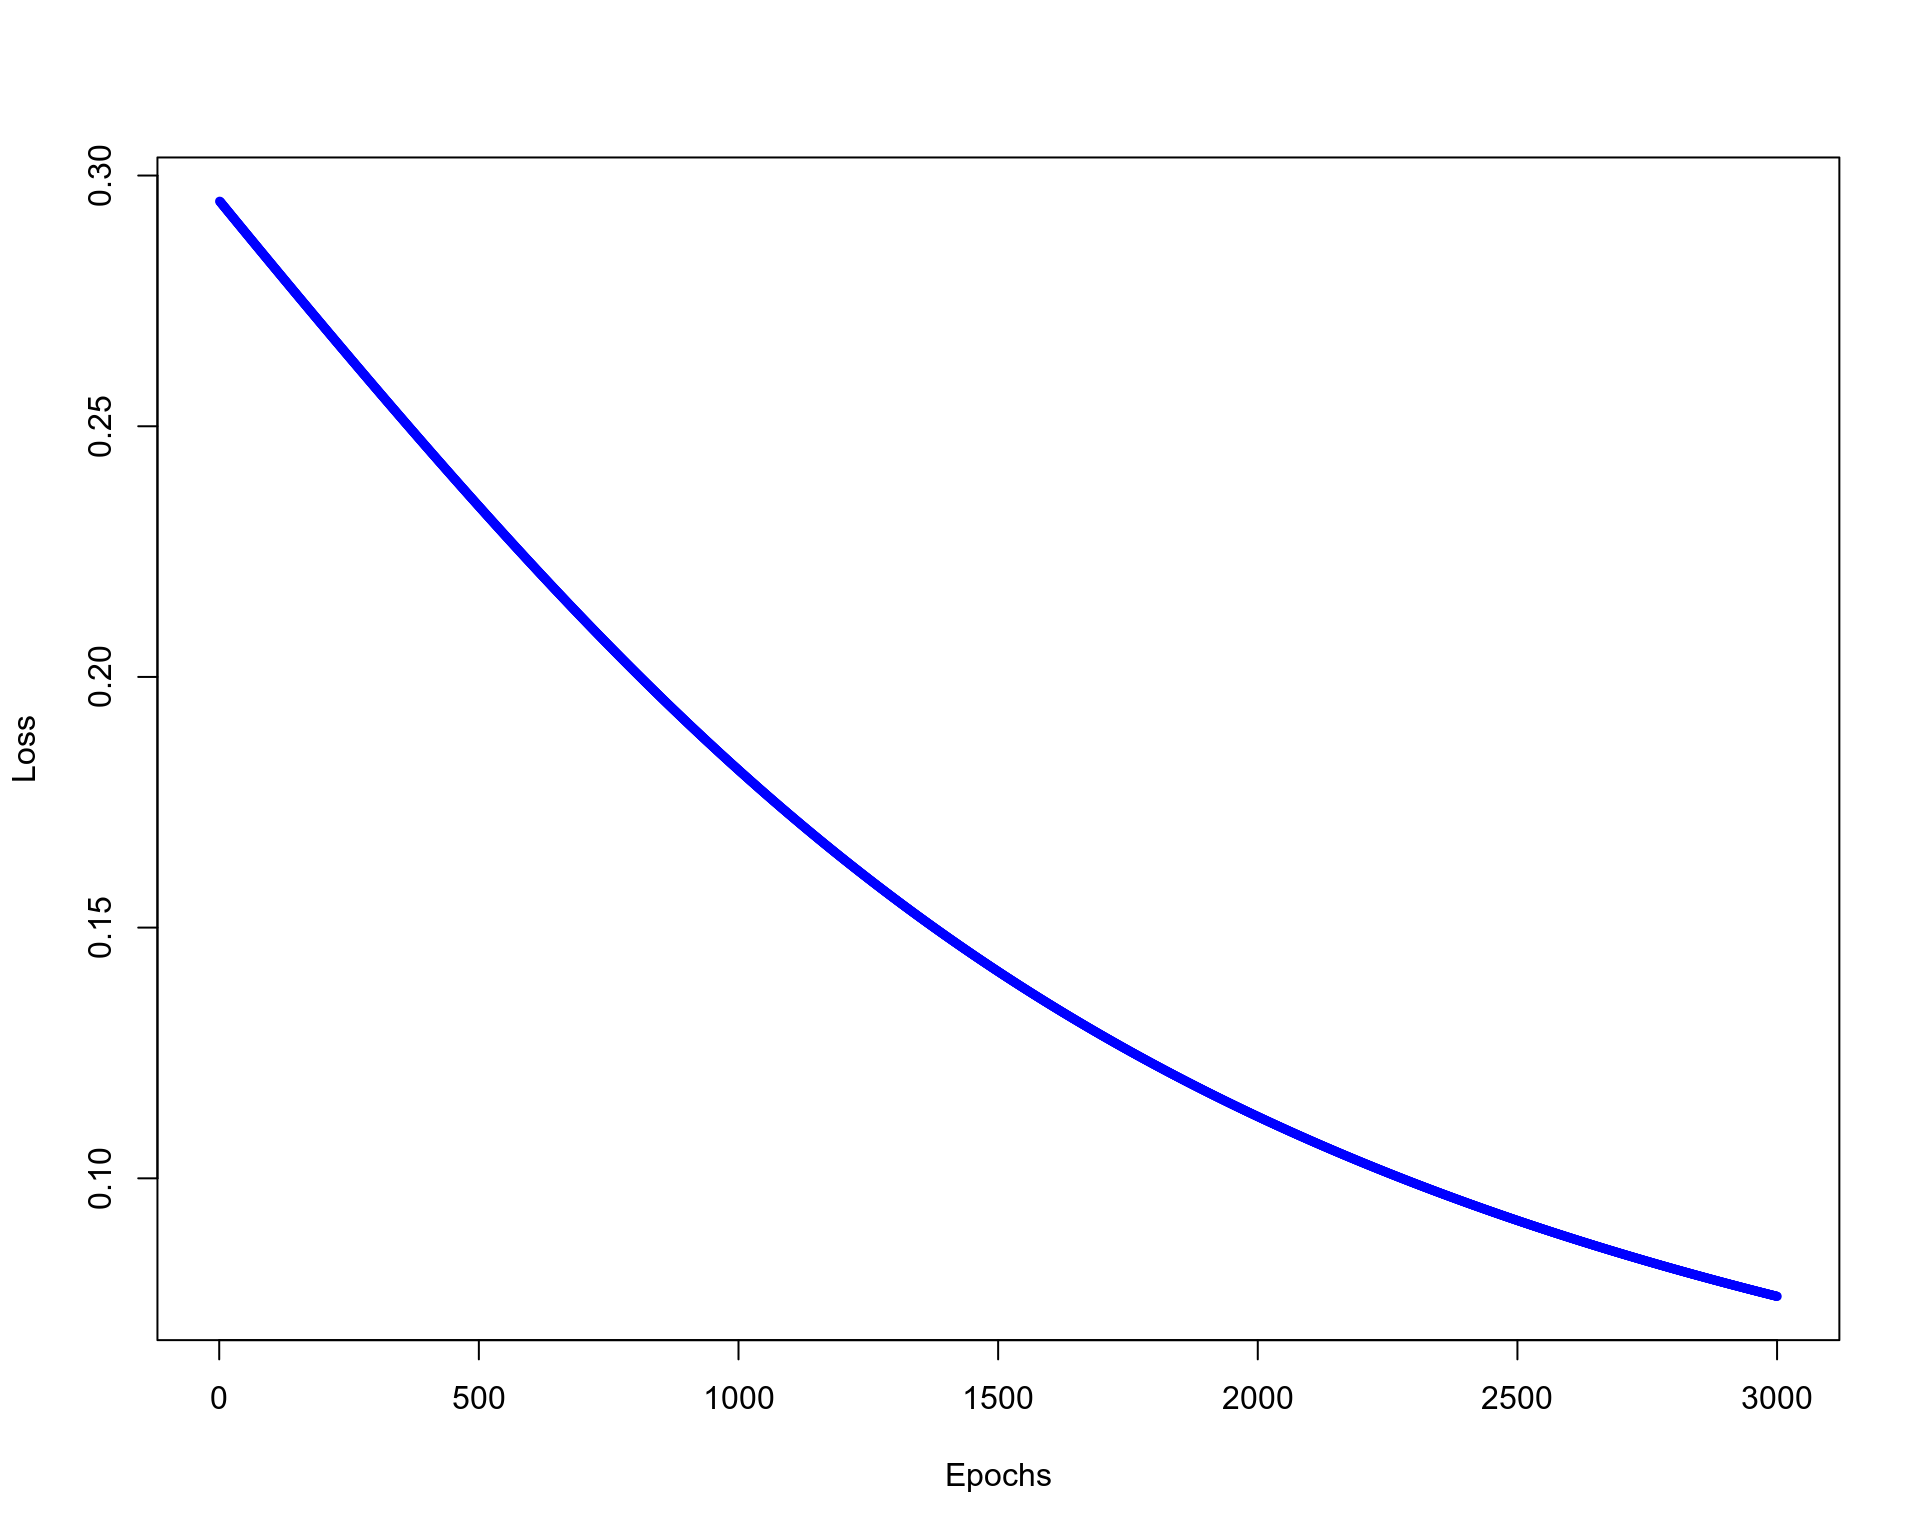
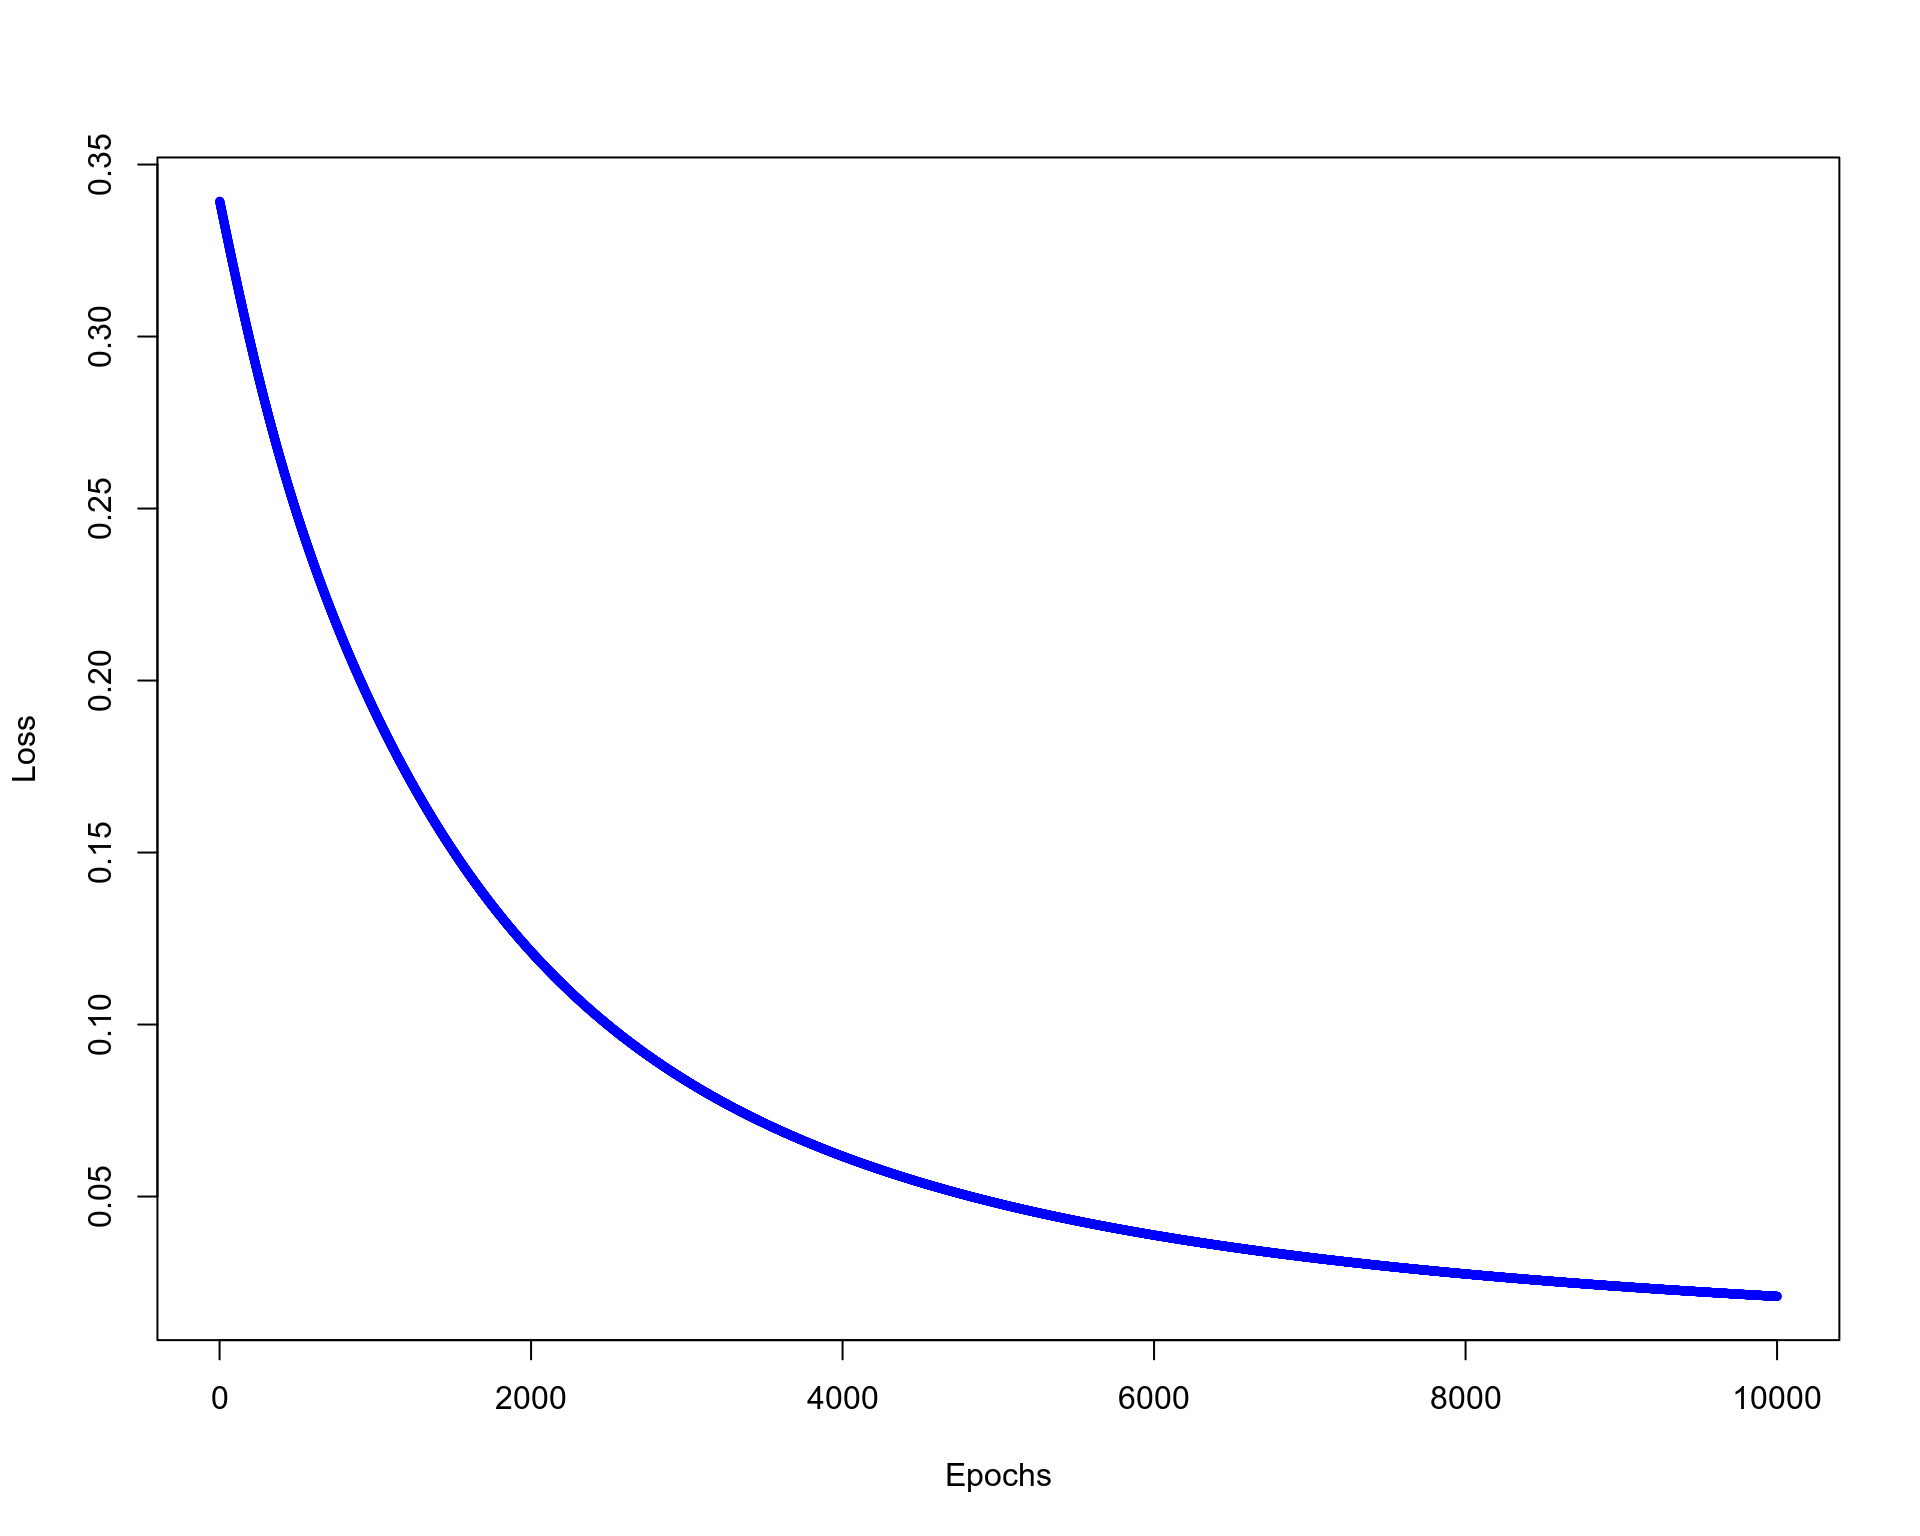
Updated epochs to 10000, removed history.rds

diff --git a/docs/labs/ml/index.html b/docs/labs/ml/index.html
@@ -187,7 +187,7 @@ background-size: cover;
       <div>
       <div class="quarto-title-meta-heading">Published</div>
       <div class="quarto-title-meta-contents">
-        <p class="date">23-May-2023</p>
+        <p class="date">24-May-2023</p>
       </div>
     </div>
     
@@ -312,7 +312,7 @@ ________________________________________________________________________________
 <div class="cell">
 <div class="sourceCode cell-code" id="cb8"><pre class="sourceCode r code-with-copy"><code class="sourceCode r"><span id="cb8-1"><a href="#cb8-1" aria-hidden="true" tabindex="-1"></a>model <span class="sc">%&gt;%</span> </span>
 <span id="cb8-2"><a href="#cb8-2" aria-hidden="true" tabindex="-1"></a>  <span class="fu">compile</span>(<span class="at">loss =</span> <span class="st">'mean_squared_error'</span>,<span class="at">optimizer =</span> <span class="fu">optimizer_sgd</span>(<span class="at">lr =</span> <span class="fl">0.1</span>))</span>
-<span id="cb8-3"><a href="#cb8-3" aria-hidden="true" tabindex="-1"></a>history <span class="ot">&lt;-</span> model <span class="sc">%&gt;%</span> <span class="fu">fit</span>(X, y, <span class="at">epochs =</span> <span class="dv">3000</span>)</span></code><button title="Copy to Clipboard" class="code-copy-button"><i class="bi"></i></button></pre></div>
+<span id="cb8-3"><a href="#cb8-3" aria-hidden="true" tabindex="-1"></a>history <span class="ot">&lt;-</span> model <span class="sc">%&gt;%</span> <span class="fu">fit</span>(X, y, <span class="at">epochs =</span> <span class="dv">10000</span>)</span></code><button title="Copy to Clipboard" class="code-copy-button"><i class="bi"></i></button></pre></div>
 </div>
 <div class="cell">
 <div class="sourceCode cell-code" id="cb9"><pre class="sourceCode r code-with-copy"><code class="sourceCode r"><span id="cb9-1"><a href="#cb9-1" aria-hidden="true" tabindex="-1"></a><span class="fu">plot</span>(history<span class="sc">$</span>metrics<span class="sc">$</span>loss<span class="sc">~</span><span class="fu">seq</span>(<span class="dv">1</span><span class="sc">:</span><span class="fu">length</span>(history<span class="sc">$</span>metrics<span class="sc">$</span>loss)),</span>
@@ -330,10 +330,10 @@ ________________________________________________________________________________
 <div class="sourceCode cell-code" id="cb10"><pre class="sourceCode r code-with-copy"><code class="sourceCode r"><span id="cb10-1"><a href="#cb10-1" aria-hidden="true" tabindex="-1"></a>model <span class="sc">%&gt;%</span> <span class="fu">predict</span>(X)</span></code><button title="Copy to Clipboard" class="code-copy-button"><i class="bi"></i></button></pre></div>
 <div class="cell-output cell-output-stdout">
 <pre><code>          [,1]
-[1,] 0.2900703
-[2,] 0.3152707
-[3,] 0.7419862
-[4,] 0.7641861</code></pre>
+[1,] 0.1765798
+[2,] 0.1417594
+[3,] 0.8874896
+[4,] 0.8586705</code></pre>
 </div>
 </div>
 <div class="cell">
@@ -647,7 +647,7 @@ window.document.addEventListener("DOMContentLoaded", function (event) {
     <div class="nav-footer-right">Published with <a href="https://quarto.org/">Quarto</a> v1.3.340</div>
   </div>
 </footer>
-<script>var lightboxQuarto = GLightbox({"openEffect":"zoom","loop":true,"descPosition":"bottom","selector":".lightbox","closeEffect":"zoom"});</script>
+<script>var lightboxQuarto = GLightbox({"descPosition":"bottom","openEffect":"zoom","selector":".lightbox","closeEffect":"zoom","loop":true});</script>
 
 
 
